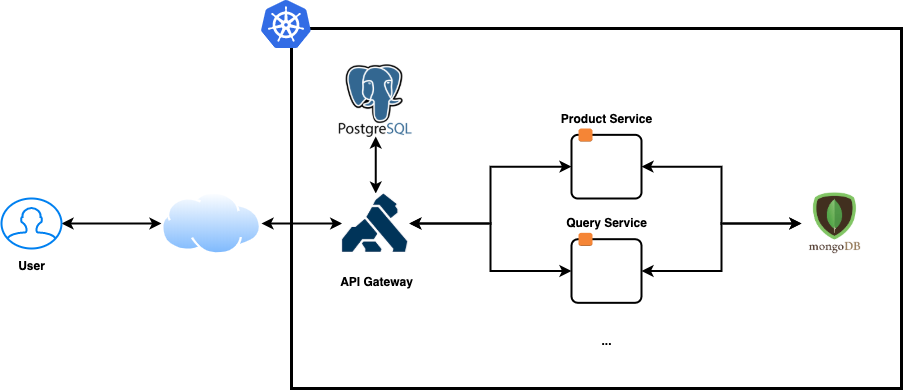
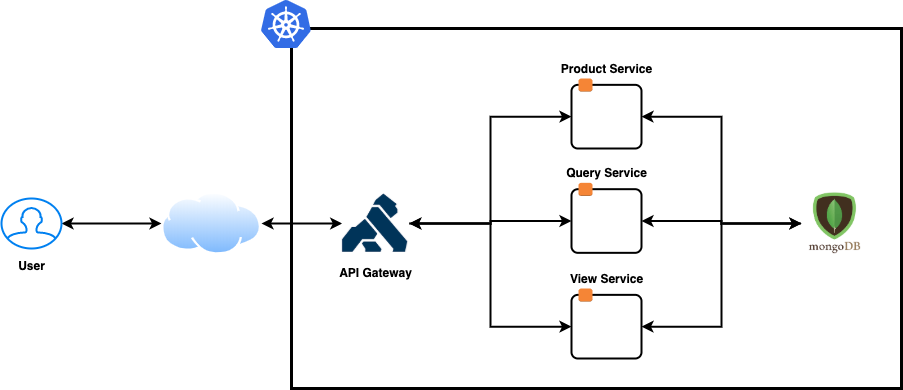
Update README

Changed region(s): [[0.4651, 0.1538, 0.8682, 0.9231], [0.3721, 0.1538, 0.4651, 0.4923], [0.3721, 0.6769, 0.4651, 0.7385]]

diff --git a/services/product/models/products.js b/services/product/models/products.js
@@ -7,8 +7,8 @@ const schema = new Schema({
   categories: [String],
   description: String,
   rating: Number,
-  originalPrice: Number,
-  currentPrice: Number,
+  originalprice: Number,
+  currentprice: Number,
   brand: String,
   seller: String
 }, {

diff --git a/README.md b/README.md
@@ -30,6 +30,7 @@
   - **sinon-mongoose**
 ## Architecture design  
 ![Architecture design](./images/iCommerce-architecture.png)  
+**NOTE** Updated to use DB Less mode, Postgres database will be removed
 - **Multitier architecture**: I choose 3-tier architecture for the system. Separate the system into 3 different component:  
   - Client: Web browser  
   - Application server: services  
@@ -40,21 +41,25 @@
   - Flexibility
   - ... 
 - **API-Gateway pattern**: I choose API gateway pattern help controlling `authentication`, `rate limit`, `analytics`, `logging`....  
+
 ## Database design  
 ![Database design](./images/database-design.png)  
 I choose **NoSQL** database MongoDB for faster implementation and easy to append later. The database is designed very simple. At that moment, there're 2 collections (table in relational databases) are:  
 - **products**: store all products and products' information.  
 - **queries**: store all searchs' information when user search, filter, sort the products.  
+- **views**: store all product's views information when user view a product
+
 ### Full text search  
 There are a feature to search products, I think it should be better if we have **Full text search** feature in **products** table. Because of that, I enable text index for all string in that table. Product's **Search API** will support **Full Text Search**
 ```js
 // kubernetes-manifests/mongodb.yaml
 targetDb.products.createIndex( {"$**": "text"} );
 ```
+
 ## Service Implementation
 ![Service architecture](./images/Service-architect.png)
 
-The architecture of the Service still follow **MVC architecture**. The only change here is I removed the **View** component because the service don't have View.  
+The architecture of the Service still follow **MVC architecture**. The only change here is I removed the **View** component because the service don't have View. 
 
 - **Controller**: Control all app logics/behavior. This component is separated into 3 sub component:  
   - **Route**: Control routing between incoming request url to appropriate handler.
@@ -62,37 +67,89 @@ The architecture of the Service still follow **MVC architecture**. The only chan
   - **Service**: Handle calculation, query data as well as interact with other external APIs.
 - **Model**: Model the database, map between database's record into application's objects. Abstract database method for app to use.
 ## APIs  
+All APIs have implemented CRUD actions
 | API | Method | Description |
 |---|---|---|
 | `api/products` | `GET` | Get list products and count of products's properties. **Note**: The counted value is based on result after `full text search`, other filters will not affect. This is match with ecommerce pages. |
 | `api/products` | `POST` | Create new products |
-| `api/products/find/:id` | `GET` | Get product by id |
+| `api/products/:id` | `GET` | Get product by id |
+| `api/products/:id` | `PATCH` | Update product |
+| `api/products/:id` | `DELETE` | Delete product |
 | `api/queries` | `GET` | Get list queries |
 | `api/queries` | `POST` | Create new queries record |
-| `api/queries/find/:id` | `GET` | Get query by id |
+| `api/queries/:id` | `GET` | Get query by id |
+| `api/queries/:id` | `PATCH` | Update query |
+| `api/queries/:id` | `DELETE` | Delete query |
+| `api/views` | `GET` | Get list product views |
+| `api/views` | `POST` | Create new product view |
+| `api/views/:id` | `GET` | Get product view by id |
+| `api/views/:id` | `PATCH` | Update product view |
+| `api/views/:id` | `DELETE` | Delete view |
 
-### GET `api/products` URL Parameters
+### GET `/api/products` URL Parameters
 | Params | Type | Value |
 |---|---|---|
 | query | String | string to search, full text search |
 | brand | String | brand to filter, find match |
 | category | String | category to filter, find match |
-| rating | Number | rating to filter, find gte |
+| rating | Int | rating to filter, find gte |
 | seller | String | seller to filter, find match |
 | price | String | price to filter, format ```js ${min}:${max} ``` |
-| sort | String | order the result, format ```js ${field}:${order} ```, order in [`min`, `max`] |
-### GET `api/queries` URL Parameters
+| sort | String | order the result, format ```js ${field}:${order} ```, order in [`desc`, `asc`] |
+
+### POST/PATCH `/api/products` request body
+```js
+{
+  query: String,
+  brand: String,
+  description: String,
+  categories: array,
+  rating: Int,
+  seller: String,
+  originalprice: Int,
+  currentprice: Int
+}
+```
+
+### GET `/api/queries` URL Parameters
 | Params | Type | Value |
 |---|---|---|
 | query | String | query string to search, full text search |
 | category | String | category to filter, find match |
 | brand | String | brand to filter, find match |
-| rating | Number | rating to filter, find match |
+| rating | Int | rating to filter, find match |
 | seller | String | seller to filter, find match |
-| minprice | Number | min price to filter, find match |
-| maxprice | Number | max price to filter, find match |
+| minprice | Int | min price to filter, find match |
+| maxprice | Int | max price to filter, find match |
 | sortby | String | order type to filter, find match |
 | sorttype | String | order type to filter, find match |
+
+### POST/PATCH `/api/queries` request body
+```js
+{
+  querystring: String,
+  brand: String,
+  category: String,
+  rating: Int,
+  seller: String,
+  minprice: Int,
+  maxprice: Int,
+  sortby: String,
+  sorttype: String
+}
+```
+
+### GET `/api/views` URL Params
+| Params | Type | Value |
+|---|---|---|
+| productid | String | Product id that viewed |
+
+### POST/PATCH `/api/views` request body
+```js
+{
+  productid: String
+}
+```
 
 **NOTE** URL parameters is case sensitive, please use the correct form in order to get the correct result
 
@@ -112,11 +169,11 @@ The architecture of the Service still follow **MVC architecture**. The only chan
 - **Skaffold**: Follow this [instruction](https://skaffold.dev/docs/install/)  
 - **Docker**: Help building the services' docker images on machine.  
 ## Build  
-- First, verify cluster is started and `kubectl` can communicate with `Kubernetes master`  
+- Step 1: Verify cluster is started and `kubectl` can communicate with `Kubernetes master`  
 ```sh
   kubectl cluster-info
 ```
-- Now build the services  
+- Step 2: Build the services  
   - **Build with skaffold (Tested)**  
   ```sh
     skaffold build
@@ -125,8 +182,10 @@ The architecture of the Service still follow **MVC architecture**. The only chan
   ```sh
     # If you use Minikube, uncomment the following command:
     # eval $(minikube docker-env)
+
     # Run the following command for each service inside services folder
     docker build -t icommerce/${service}-service services/${service}
+    # For remote cluster, please push images into some docker hub and update the images' name in yaml files
   ```
 ## Deploy  
 - First deploy resources on cluster  
@@ -139,6 +198,7 @@ The architecture of the Service still follow **MVC architecture**. The only chan
     kubectl apply -f kubernetes-manifests/
   ```
 - Setup the Kong API's routes information  
+  **UPDATED** skipped this step since we're using `Kong dbless` now  
   - **For minikube (Tested)**  
   ```sh
     ./setup/kong-routing-setup.sh
@@ -149,7 +209,11 @@ The architecture of the Service still follow **MVC architecture**. The only chan
   ```sh
     minikube service kong-proxy -n kong
   ```
-- **For other clusters (Untested)**: enter the accessible url of Kong's proxy api in your browser to test.  
+- **Docker deskop (Tested)**: access to `kong-proxy` at `http://localhost:80`
+- **Other remote cluster (Untested)s**: run the following command first and then you can access to backend via `http://localhost:80`
+  ```sh
+  kubectl port-forward --n kong svc/kong-proxy 80:80
+  ```
 
 ## Unittest
 - Go to `services/${service_name}` and run the following command:
@@ -159,13 +223,3 @@ npm test
 
 The test's result will looks like
 ![Test result](./images/unittest.png)
-
-# Future upgrade  
-- **Service mesh** is used to improve service's internal calls, currently this is done via Kong-Proxy
-- Update **database design** with the following enhancements:
-  - Entity Relationship design, consider switch to **snowflake** structure
-  - Consider move to **SQL Databases** 
-- Use **Helm & Flux** to optimize deployment on real Kubernetes Cluser
-- Add more microservices to the system: **Cart Service**, **Checkout Service**...
-- Switch from **jest** framework to **mocha** framework for testing since **jest** can't work smoothly with **mongoose**
-- Refactor **services** component's code structure to be cleaner and easier to work with.
